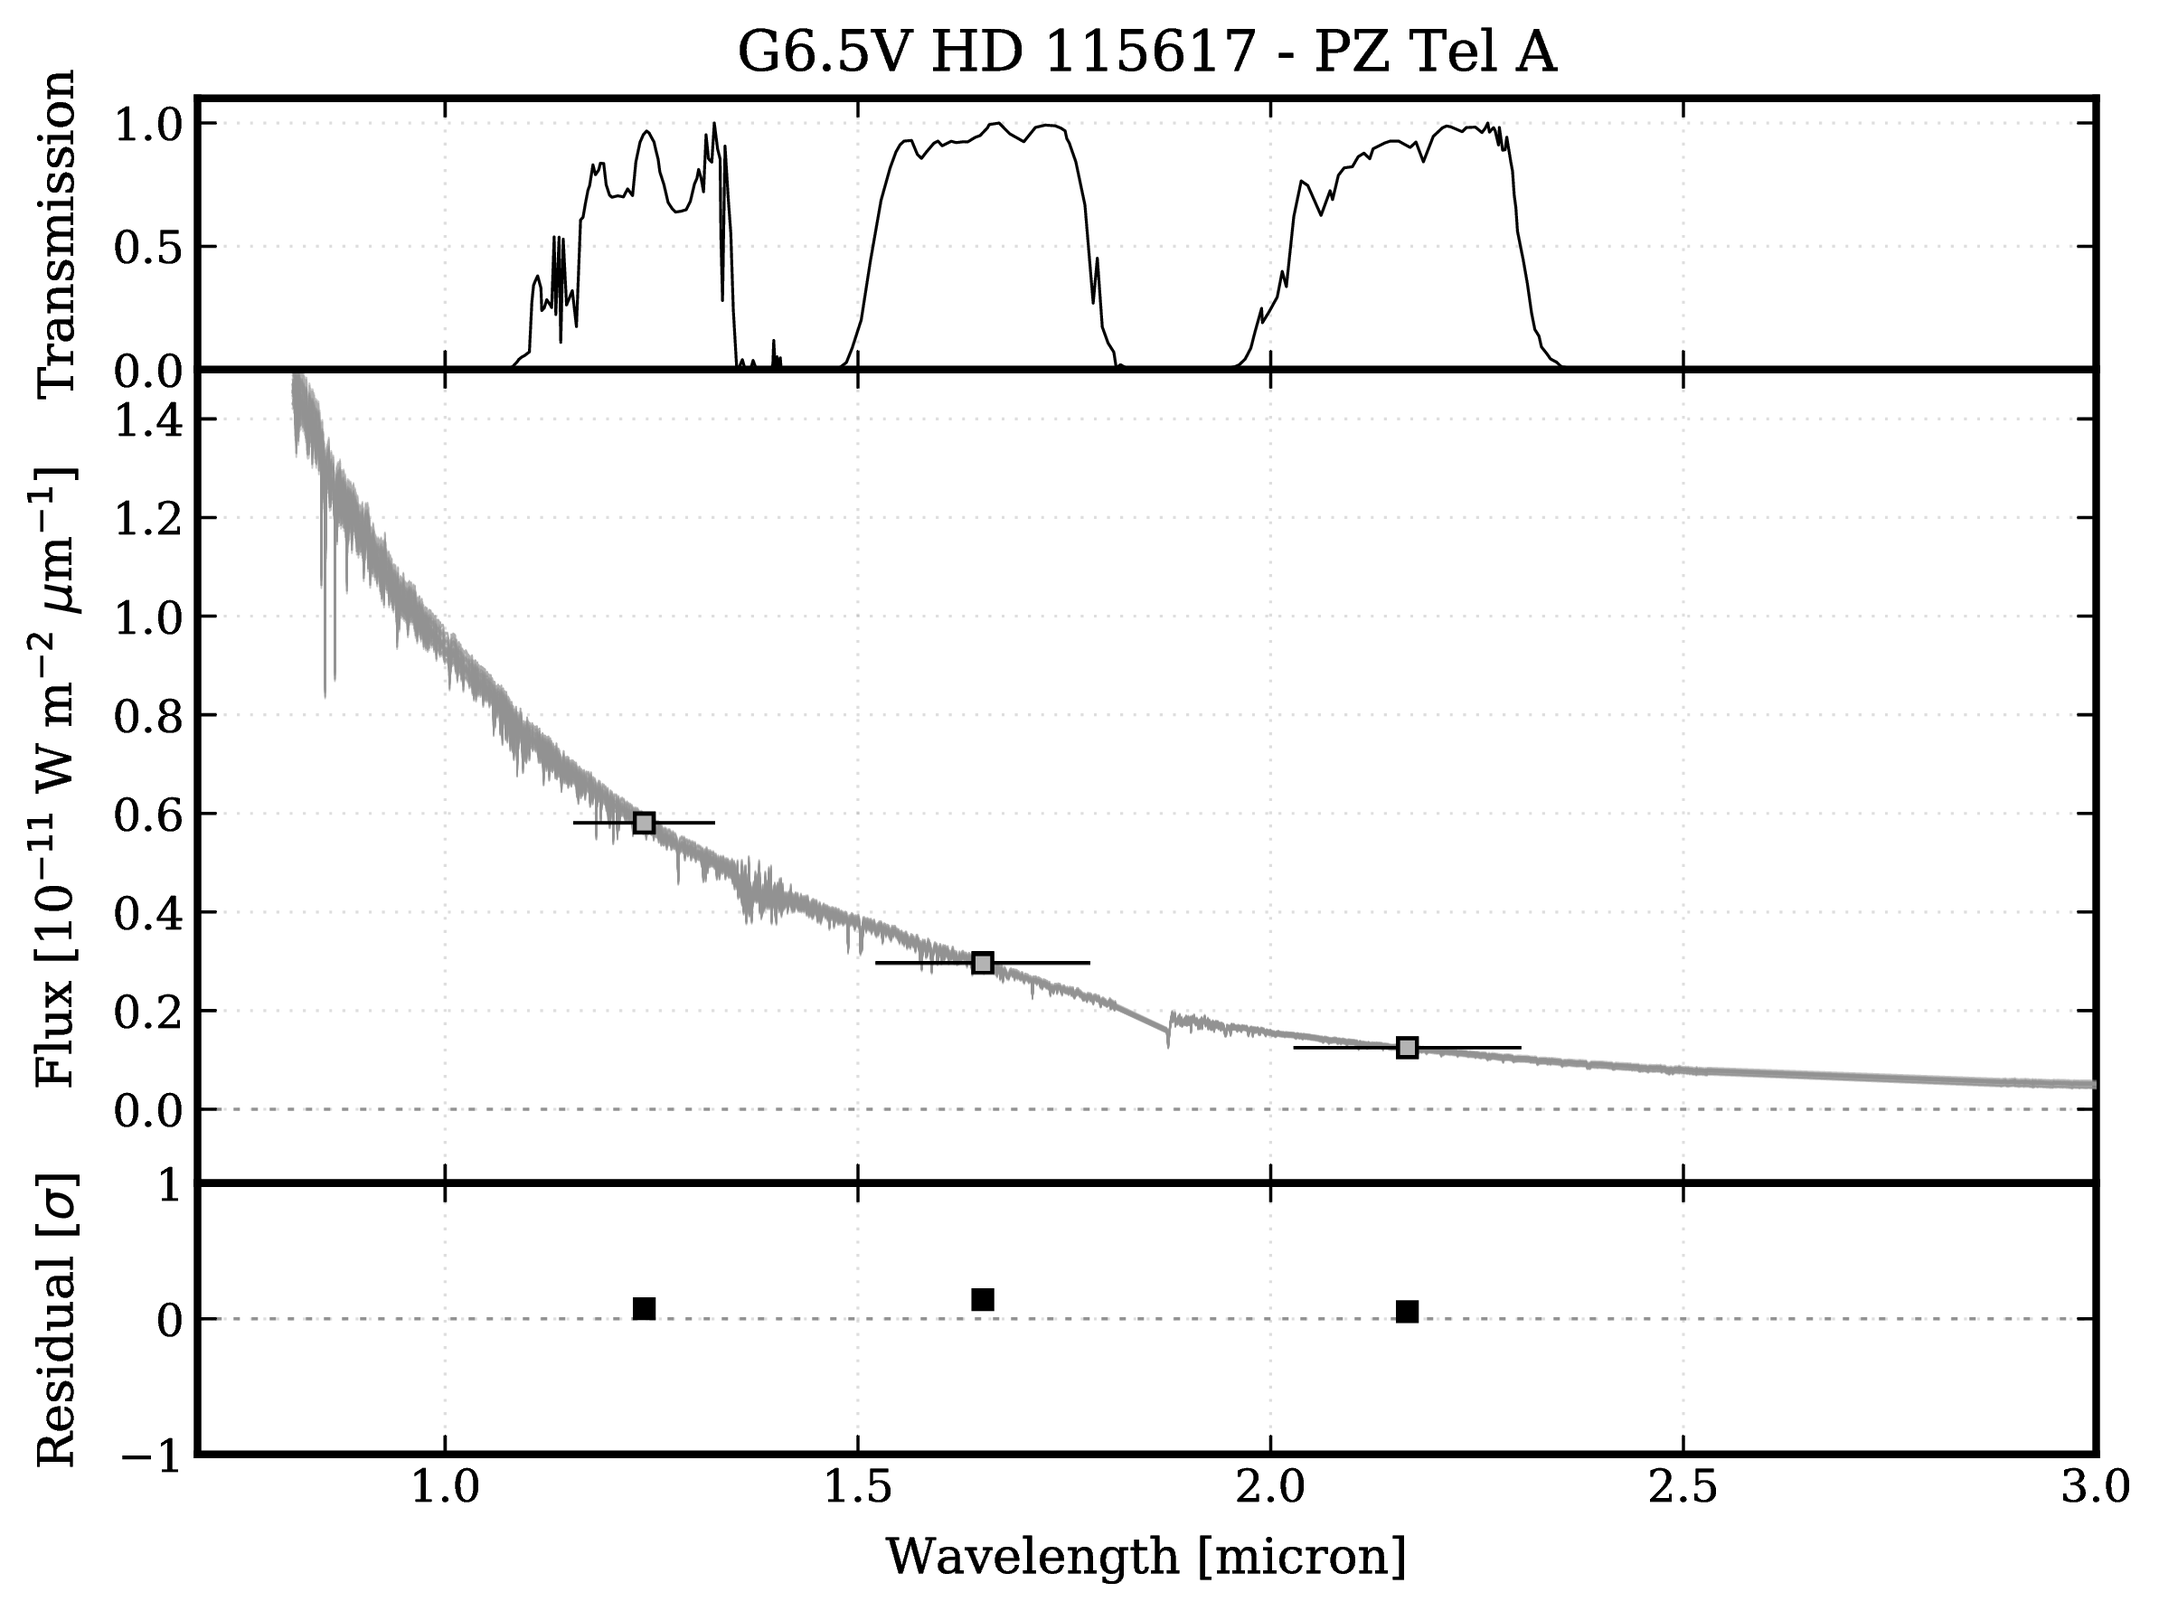
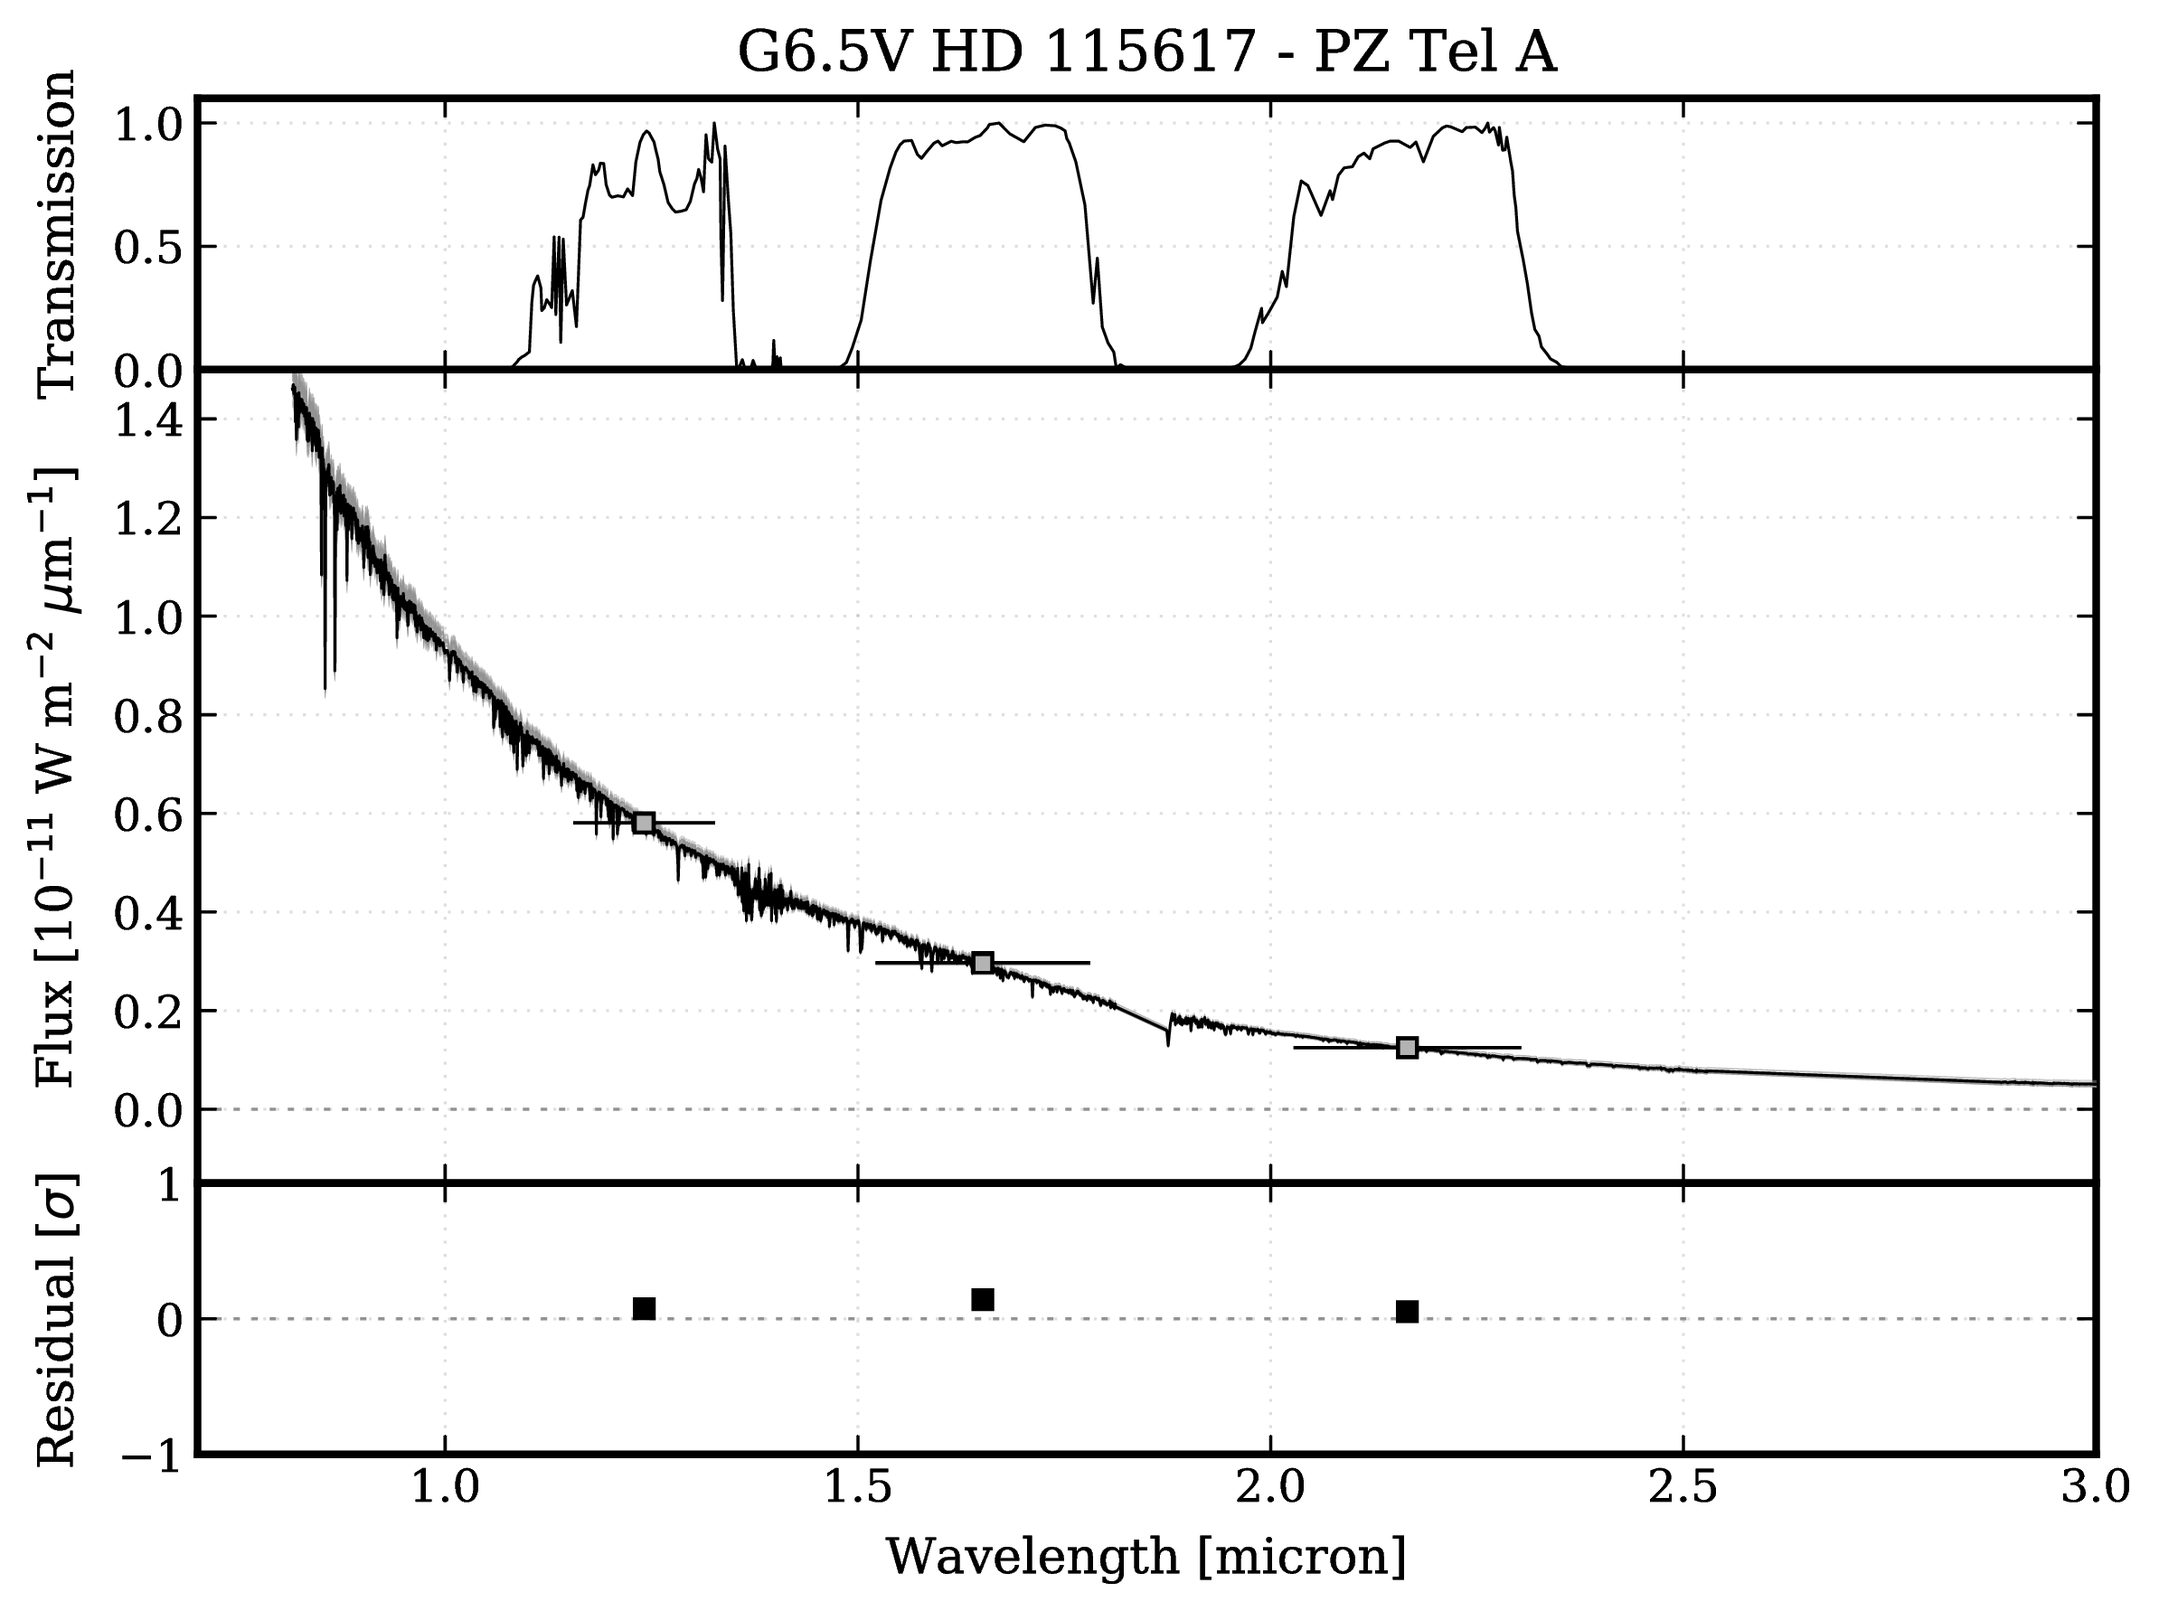
read planck

diff --git a/species/read/read_calibration.py b/species/read/read_calibration.py
@@ -3,11 +3,13 @@ Read module.
 '''
 
 import os
+import sys
 import configparser
 
 import h5py
 import numpy as np
 
+from scipy.optimize import curve_fit
 from scipy.interpolate import interp1d
 
 from species.analysis import photometry
@@ -64,13 +66,20 @@ class ReadCalibration:
                         fill_value=float('nan'))
 
     def get_spectrum(self,
-                     model_par=None,
-                     negative=False):
+                     parameters=None,
+                     negative=False,
+                     extrapolate=False,
+                     min_wavelength=None):
         '''
-        :param model_par: Model parameter values. Not used if set to None.
-        :type model_par: dict
+        :param parameters: Model parameter values. Not used if set to None.
+        :type parameters: dict
         :param negative: Include negative values.
         :type negative: bool
+        :param extrapolate: Extrapolate to 6 micron by fitting a power law function.
+        :type extrapolate: bool
+        :param min_wavelength: Minimum wavelength used for fitting the power law function. All data
+                               is used if set to None.
+        :type min_wavelength: float
 
         :return: Spectrum data.
         :rtype: numpy.ndarray
@@ -81,36 +90,73 @@ class ReadCalibration:
         data = h5_file['spectra/calibration/'+self.spectrum]
         data = np.asarray(data)
 
+        wavelength = np.asarray(data[0, ])
+        flux = np.asarray(data[1, ])
+        error = np.asarray(data[2, ])
+
         if not negative:
-            indices = np.where(data[1, ] > 0.)[0]
-            data = data[:, indices]
+            indices = np.where(flux > 0.)[0]
+
+            wavelength = wavelength[indices]
+            flux = flux[indices]
+            error = error[indices]
 
         h5_file.close()
 
-        if model_par:
-            data[1, ] = model_par['offset'] + model_par['scaling']*data[1, ]
+        if parameters:
+            flux = parameters['offset'] + parameters['scaling']*flux
+
+        if extrapolate:
+            def _power_law(wavelength, offset, scaling, power_index):
+                return offset + scaling*wavelength**power_index
+
+            if min_wavelength:
+                indices = np.where(wavelength > min_wavelength)[0]
+            else:
+                indices = np.arange(0, wavelength.size, 1)
+
+            popt, pcov = curve_fit(f=_power_law,
+                                   xdata=wavelength[indices],
+                                   ydata=flux[indices],
+                                   p0=(0., np.mean(flux), -1.),
+                                   sigma=error[indices])
+
+            sigma = np.sqrt(np.diag(pcov))
+
+            sys.stdout.write('Fit result for f(x) = a + b*x^c:\n')
+            sys.stdout.write('a = '+str(popt[0])+' +/- '+str(sigma[0])+'\n')
+            sys.stdout.write('b = '+str(popt[1])+' +/- '+str(sigma[1])+'\n')
+            sys.stdout.write('c = '+str(popt[2])+' +/- '+str(sigma[2])+'\n')
+            sys.stdout.flush()
+
+            while wavelength[-1] <= 6.:
+                wl_add = wavelength[-1] + wavelength[-1]/1000.
+                wavelength = np.append(wavelength, wl_add)
+                flux = np.append(flux, _power_law(wl_add, popt[0], popt[1], popt[2]))
+                error = np.append(error, 0.)
 
         return box.create_box(boxtype='spectrum',
                               spectrum='calibration',
-                              wavelength=data[0, ],
-                              flux=data[1, ],
+                              wavelength=wavelength,
+                              flux=flux,
+                              error=error,
                               name=self.spectrum,
                               simbad=None,
                               sptype=None,
                               distance=None)
 
     def get_photometry(self,
-                       model_par,
+                       parameters,
                        synphot=None):
         '''
-        :param model_par: Model parameter values.
-        :type model_par: dict
+        :param parameters: Model parameter values.
+        :type parameters: dict
 
         :return: Average flux density (W m-2 micron-1).
         :rtype: float
         '''
 
-        specbox = self.get_spectrum(model_par)
+        specbox = self.get_spectrum(parameters)
         synphot = photometry.SyntheticPhotometry(self.filter_name)
 
         return synphot.spectrum_to_photometry(specbox.wavelength, specbox.flux)

diff --git a/species/read/read_planck.py b/species/read/read_planck.py
@@ -1,0 +1,75 @@
+'''
+Text
+'''
+
+import math
+
+import numpy as np
+
+from species.core import box
+from species.core import constants as con
+
+
+def planck(wl_points,
+           temperature,
+           scaling):
+    '''
+    :param temperature: Temperature (K)
+    :type temperature: float
+    :param scaling: Scaling parameter.
+    :type scaling: float
+    :param wl_points: Wavelength points (micron).
+    :type wl_points: numpy.ndarray
+
+    :return: Flux density (W m-2 micron-1).
+    :rtype: numpy.ndarray
+    '''
+
+    planck1 = 2.*con.PLANCK*con.LIGHT**2/(1e-6*wl_points)**5
+    planck2 = np.exp(con.PLANCK*con.LIGHT/(1e-6*wl_points*con.BOLTZMANN*temperature)) - 1.
+
+    flux = 4.*math.pi * scaling * planck1/planck2 # [W m-2 m-1]
+    flux *= 1e-6 # [W m-2 micron-1]
+
+    return flux
+
+
+def get_planck(temperature,
+               radius,
+               distance,
+               wavelength,
+               specres):
+    '''
+    :param temperature: Temperature (K)
+    :type temperature: float
+    :param radius: Radius (Rjup).
+    :type radius: float
+    :param distance: Distance (pc).
+    :type distance: float
+    :param wavelength: Wavelength range (micron).
+    :type wavelength: tuple(float, float)
+    :param specres: Spectral resolution
+    :type specres: float
+
+    :return: Box with the Planck spectrum.
+    :rtype: species.core.box.SpectrumBox
+    '''
+
+    wl_points = [wavelength[0]]
+    while wl_points[-1] <= wavelength[1]:
+        wl_points.append(wl_points[-1] + wl_points[-1]/specres)
+
+    wl_points = np.asarray(wl_points) # [micron]
+
+    scaling = (radius*con.R_JUP/(distance*con.PARSEC))**2
+    flux = planck(np.copy(wl_points), temperature, scaling) # [W m-2 micron-1]
+
+    return box.create_box(boxtype='spectrum',
+                          spectrum='planck',
+                          wavelength=wl_points,
+                          flux=flux,
+                          error=None,
+                          name=None,
+                          simbad=None,
+                          sptype=None,
+                          distance=None)

diff --git a/species/plot/plot_spectrum.py b/species/plot/plot_spectrum.py
@@ -211,7 +211,6 @@ def plot_spectrum(boxes,
         ax3.set_xscale(scale[0])
 
     for j, boxitem in enumerate(boxes):
-
         if isinstance(boxitem, (box.SpectrumBox, box.ModelBox)):
             wavelength = boxitem.wavelength
             flux = boxitem.flux
@@ -247,16 +246,16 @@ def plot_spectrum(boxes,
                     label = None
 
                 if colors:
-                    ax1.plot(wavelength, masked/scaling, color=colors[j], lw=1.0, label=label, zorder=4)
+                    ax1.plot(wavelength, masked/scaling, color=colors[j], lw=0.5, label=label, zorder=4)
                 else:
-                    ax1.plot(wavelength, masked/scaling, lw=1.0, label=label, zorder=4)
+                    ax1.plot(wavelength, masked/scaling, lw=0.5, label=label, zorder=4)
 
             elif isinstance(wavelength[0], (np.ndarray)):
                 for i, item in enumerate(wavelength):
                     data = np.array(flux[i], dtype=np.float64)
                     masked = np.ma.array(data, mask=np.isnan(data))
 
-                    ax1.plot(item, masked/scaling, lw=1)
+                    ax1.plot(item, masked/scaling, lw=0.5)
 
         elif isinstance(boxitem, tuple):
             for i, item in enumerate(boxitem):
@@ -267,9 +266,9 @@ def plot_spectrum(boxes,
                 masked = np.ma.array(data, mask=np.isnan(data))
 
                 if colors:
-                    ax1.plot(wavelength, masked/scaling, lw=0.4, color=colors[j], alpha=0.5, zorder=3)
+                    ax1.plot(wavelength, masked/scaling, lw=0.2, color=colors[j], alpha=0.5, zorder=3)
                 else:
-                    ax1.plot(wavelength, masked/scaling, lw=0.4, alpha=0.5, zorder=3)
+                    ax1.plot(wavelength, masked/scaling, lw=0.2, alpha=0.5, zorder=3)
 
         elif isinstance(boxitem, box.PhotometryBox):
             if colors:

diff --git a/species/read/read_spectrum.py b/species/read/read_spectrum.py
@@ -3,60 +3,14 @@ Read module.
 '''
 
 import os
-import math
 import configparser
 
 import h5py
 import numpy as np
 
 from species.core import box
-from species.core import constants as con
 from species.data import database
 from species.read import read_filter
-
-
-def get_planck(temperature,
-               radius,
-               distance,
-               wavelength,
-               specres):
-    '''
-    :param temperature: Temperature (K)
-    :type temperature: float
-    :param radius: Radius (Rjup).
-    :type radius: float
-    :param distance: Distance (pc).
-    :type distance: float
-    :param wavelength: Wavelength range (micron).
-    :type wavelength: tuple(float, float)
-    :param specres: Spectral resolution
-    :type specres: float
-
-    :return: Box with the Planck spectrum.
-    :rtype: species.core.box.SpectrumBox
-    '''
-
-    wl_points = [wavelength[0]]
-
-    while wl_points[-1] <= wavelength[1]:
-        wl_points.append(wl_points[-1] + wl_points[-1]/specres)
-
-    wl_points = np.asarray(wl_points[:-1]) # [micron]
-    wl_points *= 1e-6 # [m]
-
-    planck1 = 2.*con.PLANCK*con.LIGHT**2/wl_points**5
-    planck2 = np.exp(con.PLANCK*con.LIGHT/(wl_points*con.BOLTZMANN*temperature)) - 1.
-
-    flux = 4.*math.pi * (radius*con.R_JUP/(distance*con.PARSEC))**2 * planck1/planck2 # [W m-2 m-1]
-    flux *= 1e-6 # [W m-2 micron-1]
-
-    wl_points *= 1e6 # [micron]
-
-    return box.create_box(boxtype='spectrum',
-                          spectrum='planck',
-                          wavelength=wl_points,
-                          flux=flux,
-                          name=None)
 
 
 class ReadSpectrum:

diff --git a/species/data/companions.py b/species/data/companions.py
@@ -134,9 +134,9 @@ def get_data():
                                    'Paranal/NACO.J':(12.47, 0.20), # Biller et al. 2010
                                    'Paranal/NACO.H':(11.93, 0.14), # Biller et al. 2010
                                    'Paranal/NACO.Ks':(11.53, 0.07), # Biller et al. 2010
-                                   'Paranal/NACO.Lp':(11.05, 0.18), # Beust et al. 2015
-                                   # 'Paranal/NACO.NB405':(), # Stolker et al. in prep.
-                                   # 'Paranal/NACO.Mp':(), # Stolker et al. in prep.
+                                   # 'Paranal/NACO.Lp':(11.05, 0.18), # Beust et al. 2015
+                                   'Paranal/NACO.NB405':(9.81, 0.01), # Stolker et al. in prep.
+                                   'Paranal/NACO.Mp':(9.42, 0.02), # Stolker et al. in prep.
                                    'Gemini/NICI.ED286':(11.68, 0.14), # Biller et al. 2010
                                    'Gemini/NIRI.H2S1v2-1-G0220':(11.39, 0.14)}}, # Biller et al. 2010
 

diff --git a/species/__init__.py b/species/__init__.py
@@ -15,8 +15,9 @@ from species.read.read_model import ReadModel, \
                                     get_mass, \
                                     add_luminosity
 
-from species.read.read_spectrum import ReadSpectrum, \
-                                       get_planck
+from species.read.read_planck import get_planck
+
+from species.read.read_spectrum import ReadSpectrum
 
 from species.read.read_color import ReadColorMagnitude, \
                                     ReadColorColor

diff --git a/species/read/read_model.py b/species/read/read_model.py
@@ -147,8 +147,11 @@ class ReadModel:
 
         index = np.where(wl_index)[0]
 
-        wl_index[index[0] - 1] = True
-        wl_index[index[-1] + 1] = True
+        if index[0]-1 >= 0:
+            wl_index[index[0] - 1] = True
+
+        if index[-1]+1 < wl_index.size:
+            wl_index[index[-1] + 1] = True
 
         if self.model in ('drift-phoenix', 'bt-nextgen'):
             feh = np.asarray(h5_file['models/'+self.model+'/feh'])

diff --git a/species/core/box.py b/species/core/box.py
@@ -69,6 +69,7 @@ def create_box(boxtype, **kwargs):
         box.spectrum = kwargs['spectrum']
         box.wavelength = kwargs['wavelength']
         box.flux = kwargs['flux']
+        box.error = kwargs['error']
         box.name = kwargs['name']
         box.simbad = kwargs['simbad']
         box.sptype = kwargs['sptype']

diff --git a/docs/installation.rst b/docs/installation.rst
@@ -15,7 +15,7 @@ In that case, the dependencies can be installed from the *species* folder::
 
     $ pip install -r requirements.txt
 
-The installation can be tested by starting Python in interactive mode and printing the *species* version::
+The installation can be tested by starting Python in interactive mode and printing the version number::
 
     >>> import species
     >>> print species.__version__
